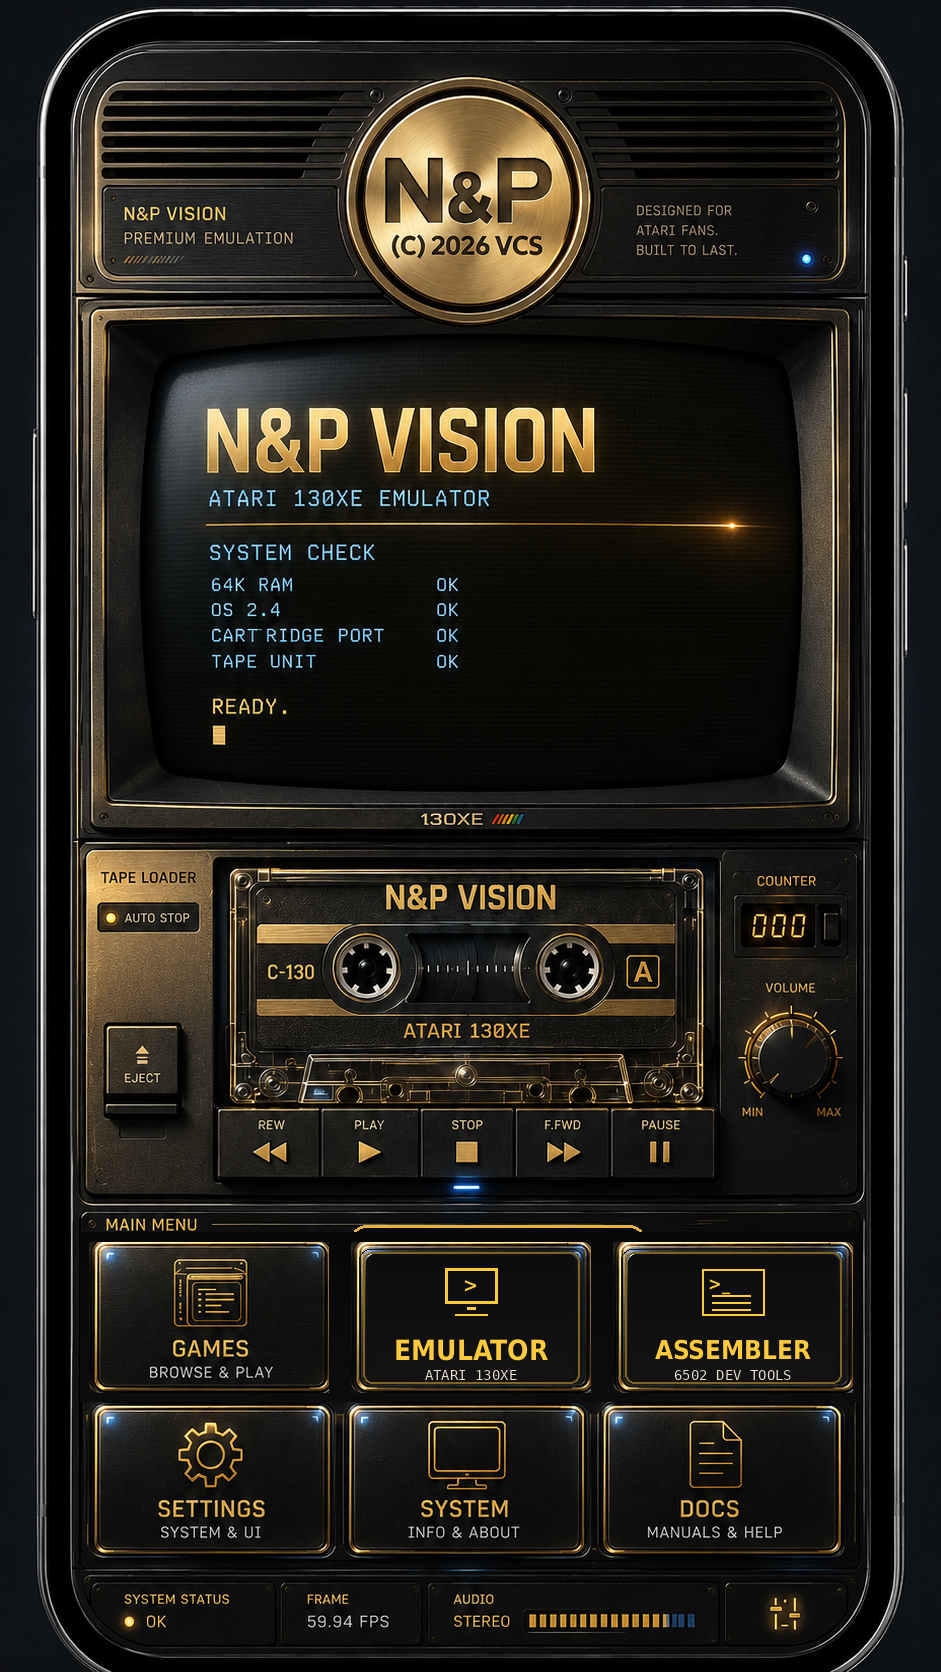
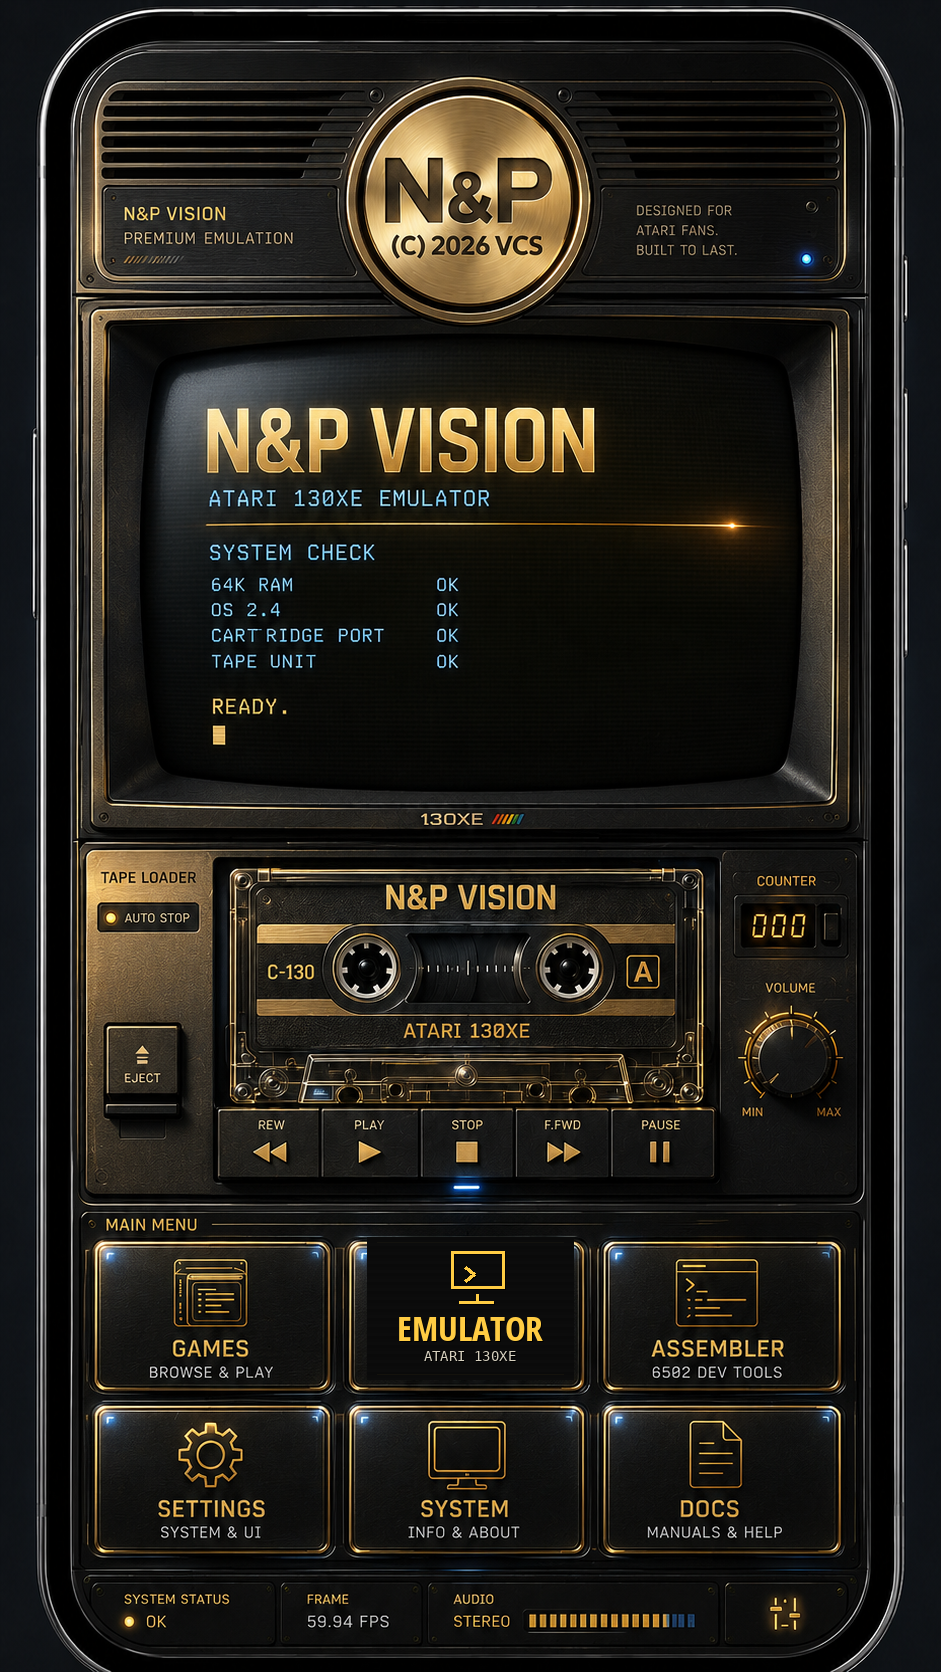
AtariHelp_EMU10_BUILD2FM_VISUAL_BASE_FROM_OLD_APK_NO_CORE_CHANGE_overlay

Changed region(s): [[0.339, 0.7153, 0.9245, 0.8397]]

diff --git a/app/src/main/assets/emu/index.html b/app/src/main/assets/emu/index.html
@@ -3,7 +3,7 @@
 <head>
 <meta charset="utf-8">
 <meta name="viewport" content="width=device-width, initial-scale=1, user-scalable=no">
-<title>N&P VISION - Atari 130XE Emulator BUILD2FL</title>
+<title>N&P VISION - Atari 130XE Emulator BUILD2FM</title>
 <style>
 :root{--gold:#f2c464;--blue:#62c8ff;--dark:#050608;--w:941;--h:1672;}
 *{box-sizing:border-box;margin:0;padding:0;-webkit-tap-highlight-color:transparent;}
@@ -185,7 +185,7 @@ canvas#scr{position:absolute;left:0;top:0;width:100% !important;height:100% !imp
 @media (prefers-reduced-motion:reduce){.scan,.screenSlot:after,#led{animation:none}}
 
 
-/* BUILD2FL: START+OPTION = opravdu jen neviditelna hit-zona nad PNG. Ani pressed/on/active nesmi kreslit dalsi obdelnik. */
+/* BUILD2FM: START+OPTION = opravdu jen neviditelna hit-zona nad PNG. Ani pressed/on/active nesmi kreslit dalsi obdelnik. */
 #btnSelfTest,#btnSelfTest.cleanHit,
 #btnSelfTest:hover,#btnSelfTest:active,#btnSelfTest:focus,#btnSelfTest:focus-visible,
 #btnSelfTest.pressed,#btnSelfTest.on,#btnSelfTest.flash,#btnSelfTest.down{
@@ -195,6 +195,18 @@ canvas#scr{position:absolute;left:0;top:0;width:100% !important;height:100% !imp
   box-shadow:none!important;filter:none!important;transform:none!important;color:transparent!important;text-shadow:none!important;
   font-size:0!important;line-height:0!important;letter-spacing:0!important;padding:0!important;margin:0!important;
   -webkit-appearance:none!important;appearance:none!important;border-radius:0!important;mix-blend-mode:normal!important;
+}
+#btnSelfTest:before,#btnSelfTest:after,#btnSelfTest.cleanHit:before,#btnSelfTest.cleanHit:after{content:none!important;display:none!important;background:none!important;border:0!important;box-shadow:none!important;}
+
+
+
+/* BUILD2FM: START+OPTION kresli pouze PNG skin z upravene stare APK reference. HTML button je cista neviditelna hit-zona. */
+#btnSelfTest,#btnSelfTest.cleanHit,
+#btnSelfTest:hover,#btnSelfTest:active,#btnSelfTest:focus,#btnSelfTest:focus-visible,
+#btnSelfTest.pressed,#btnSelfTest.on,#btnSelfTest.flash,#btnSelfTest.down{
+  background:transparent!important;border:0!important;box-shadow:none!important;outline:0!important;
+  color:transparent!important;text-shadow:none!important;font-size:0!important;opacity:0!important;
+  transform:none!important;padding:0!important;-webkit-appearance:none!important;appearance:none!important;
 }
 #btnSelfTest:before,#btnSelfTest:after,#btnSelfTest.cleanHit:before,#btnSelfTest.cleanHit:after{content:none!important;display:none!important;background:none!important;border:0!important;box-shadow:none!important;}
 
@@ -252,7 +264,7 @@ canvas#scr{position:absolute;left:0;top:0;width:100% !important;height:100% !imp
 <div id="miniLog"></div>
 <div id="txtOverlay" class="overlay" aria-label="Vlozeni BASIC TXT kodu">
   <h2>VLOZIT TXT / BASIC KOD</h2>
-  <div class="hint">Sem vloz BASIC/Turbo BASIC kod. VLOZIT DO ATARI jen zapise program. VLOZIT + RUN po zapisu automaticky posle RUN. BUILD2FL pise pomaleji, ale bezpecneji.</div>
+  <div class="hint">Sem vloz BASIC/Turbo BASIC kod. VLOZIT DO ATARI jen zapise program. VLOZIT + RUN po zapisu automaticky posle RUN. BUILD2FM pise pomaleji, ale bezpecneji.</div>
   <div class="row"><button id="btnTxtGo">VLOZIT DO ATARI</button><button id="btnTxtRun">VLOZIT + RUN</button><button id="btnTxtFile" class="dark">NAHRAJ TXT SOUBOR</button><button id="btnTxtClear" class="dark">SMAZAT TEXT</button><button id="btnTxtClose" class="danger">ZAVRIT</button></div>
   <label style="display:flex;gap:8px;align-items:center;"><input type="checkbox" id="chkNew" checked>NEW pred vlozenim programu</label>
   <textarea id="txtIn" autocomplete="off" autocorrect="off" autocapitalize="off" spellcheck="false" placeholder="10 PRINT &quot;ATARIHELP&quot;&#10;20 FOR I=1 TO 5&#10;30 PRINT I&#10;40 NEXT I"></textarea>
@@ -2193,14 +2205,14 @@ window.EMU10={ createMachine:function(){ return Atari130XE(b64u8(EMU10_OS_B64), 
     }catch(_e){}
   }
 
-  // ---------- vkladani TXT (BUILD2FL: FAST SAFE IRQ rezim - rychlejsi nez FI, porad bez RAM injectu) ----------
+  // ---------- vkladani TXT (BUILD2FM: FAST SAFE IRQ rezim - rychlejsi nez FI, porad bez RAM injectu) ----------
   var typeQ=[], typeWait=0, typeHold=0, typeCurrent=null, typeSent=0, typeTotal=0, typeDoneLogged=true;
-  var typeLineIndex=0, typeLineTotal=0, typeChWait=0, typeLastLineLogged=0, typeBuildName='BUILD2FL';
+  var typeLineIndex=0, typeLineTotal=0, typeChWait=0, typeLastLineLogged=0, typeBuildName='BUILD2FM';
   function clearTypeQueue(reason){
     typeQ.length=0; typeWait=0; typeHold=0; typeCurrent=null; typeSent=0; typeTotal=0; typeDoneLogged=true;
     typeLineIndex=0; typeLineTotal=0; typeChWait=0; typeLastLineLogged=0;
     try{ if(M) M.keyUp(); }catch(_e){}
-    if(reason) log('VLOZIT TXT BUILD2FL: fronta vycistena - '+reason);
+    if(reason) log('VLOZIT TXT BUILD2FM: fronta vycistena - '+reason);
   }
   function pushTypeScan(sc, meta){
     meta=meta||{}; meta.sc=sc&0xFF; typeQ.push(meta);
@@ -2211,7 +2223,7 @@ window.EMU10={ createMachine:function(){ return Atari130XE(b64u8(EMU10_OS_B64), 
     clearTypeQueue('novy text');
     var skipped=0, lineNo=1, visibleLines=0;
     text=String(text||'').replace(/\r/g,'');
-    // BUILD2FL: kdyz posledni radek nema ENTER, pridam ho. Bez toho BASIC/TBXL posledni radek nemusi potvrdit.
+    // BUILD2FM: kdyz posledni radek nema ENTER, pridam ho. Bez toho BASIC/TBXL posledni radek nemusi potvrdit.
     if(text.length && text[text.length-1] !== '\n' && text[text.length-1] !== '\x01' && text[text.length-1] !== '\x02') text+='\n';
     var lineBuf='';
     function flushReturn(label,longWait){
@@ -2244,15 +2256,15 @@ window.EMU10={ createMachine:function(){ return Atari130XE(b64u8(EMU10_OS_B64), 
     }
     typeTotal=typeQ.length; typeSent=0; typeDoneLogged=(typeTotal===0);
     typeLineTotal=visibleLines; typeLineIndex=0;
-    log('VLOZIT TXT BUILD2FL: pripraveno '+typeTotal+' stisku / '+visibleLines+' radku. CLASSIC SAFE rezim: pomalejsi, ale stabilni. Po kazde klavese a RETURN cekam na CH $02FC. Posledni radek dostane ENTER automaticky. Zadny RAM inject.'+(skipped?(' Preskoceno '+skipped+' neznamych znaku.'):'') );
-    if(typeTotal===0) log('VLOZIT TXT BUILD2FL: nic k vlozeni.');
+    log('VLOZIT TXT BUILD2FM: pripraveno '+typeTotal+' stisku / '+visibleLines+' radku. CLASSIC SAFE rezim: pomalejsi, ale stabilni. Po kazde klavese a RETURN cekam na CH $02FC. Posledni radek dostane ENTER automaticky. Zadny RAM inject.'+(skipped?(' Preskoceno '+skipped+' neznamych znaku.'):'') );
+    if(typeTotal===0) log('VLOZIT TXT BUILD2FM: nic k vlozeni.');
   }
   function machineChEmpty(){
     try{ if(M && typeof M.chEmpty==='function') return M.chEmpty(); }catch(_e){}
     return true;
   }
   function typeStep(){
-    // BUILD2FL: rychlejsi SAFE rezim. Ne blokove FG, porad jednotlive klavesy pres IRQ + CH guard.
+    // BUILD2FM: rychlejsi SAFE rezim. Ne blokove FG, porad jednotlive klavesy pres IRQ + CH guard.
     if(!M){ clearTypeQueue('neni machine'); return; }
     if(typeWait>0){ typeWait--; return; }
     if(typeCurrent!==null){
@@ -2261,17 +2273,17 @@ window.EMU10={ createMachine:function(){ return Atari130XE(b64u8(EMU10_OS_B64), 
       var done=typeCurrent; typeCurrent=null;
       if(done.kind==='return'){
         typeLineIndex++;
-        var wait=done.longWait?220:80; // BUILD2FL: CLASSIC SAFE dobeh po radku pro BASIC/TBXL
+        var wait=done.longWait?220:80; // BUILD2FM: CLASSIC SAFE dobeh po radku pro BASIC/TBXL
         typeWait=wait;
         if(typeLineIndex===1 || typeLineIndex===typeLineTotal || (typeLineIndex%5)===0 || done.longWait){
-          log('VLOZIT TXT BUILD2FL: TXT LINE '+typeLineIndex+'/'+typeLineTotal+' '+(done.label||'RETURN')+' odeslan, cekam BASIC/TBXL '+wait+' kroku.');
+          log('VLOZIT TXT BUILD2FM: TXT LINE '+typeLineIndex+'/'+typeLineTotal+' '+(done.label||'RETURN')+' odeslan, cekam BASIC/TBXL '+wait+' kroku.');
         }
       } else {
-        typeWait=6; // BUILD2FL: CLASSIC SAFE oddech po znaku, stabilita pred rychlosti
+        typeWait=6; // BUILD2FM: CLASSIC SAFE oddech po znaku, stabilita pred rychlosti
       }
       if(!typeQ.length && typeSent>=typeTotal && !typeDoneLogged){
         typeDoneLogged=true;
-        log('VLOZIT TXT BUILD2FL: QUEUE COMPLETE - vsechny znaky/radky odeslany pres klavesove IRQ, bez RAM injectu. Ted pouzij LIST/RUN nebo tlacitko VLOZIT + RUN.');
+        log('VLOZIT TXT BUILD2FM: QUEUE COMPLETE - vsechny znaky/radky odeslany pres klavesove IRQ, bez RAM injectu. Ted pouzij LIST/RUN nebo tlacitko VLOZIT + RUN.');
       }
       return;
     }
@@ -2279,18 +2291,18 @@ window.EMU10={ createMachine:function(){ return Atari130XE(b64u8(EMU10_OS_B64), 
     if(!machineChEmpty()){
       typeChWait++;
       if(typeChWait===1 || (typeChWait%80)===0){
-        log('VLOZIT TXT BUILD2FL: cekam na prazdny CH $02FC pred dalsi klavesou, line '+(typeQ[0]&&typeQ[0].line?typeQ[0].line:'?')+'.');
+        log('VLOZIT TXT BUILD2FM: cekam na prazdny CH $02FC pred dalsi klavesou, line '+(typeQ[0]&&typeQ[0].line?typeQ[0].line:'?')+'.');
       }
       return;
     }
     typeChWait=0;
     var it=typeQ.shift();
-    try{ M.keyDown(it.sc&0xFF); }catch(e){ log('VLOZIT TXT BUILD2FL: keyDown chyba - '+e.message); clearTypeQueue('chyba keyDown'); return; }
+    try{ M.keyDown(it.sc&0xFF); }catch(e){ log('VLOZIT TXT BUILD2FM: keyDown chyba - '+e.message); clearTypeQueue('chyba keyDown'); return; }
     typeCurrent=it; typeHold=2; typeSent++;
     if(it.kind==='return'){
       // RETURN logujeme az po keyUp, aby bylo jasne, ze ho BASIC/TBXL dostal do fronty
     } else if(typeSent===1 || typeSent===typeTotal || (typeSent%40)===0){
-      log('VLOZIT TXT BUILD2FL: znak '+typeSent+'/'+typeTotal+' line '+it.line+' scan=$'+((it.sc&255).toString(16).toUpperCase()).padStart(2,'0')+'.');
+      log('VLOZIT TXT BUILD2FM: znak '+typeSent+'/'+typeTotal+' line '+it.line+' scan=$'+((it.sc&255).toString(16).toUpperCase()).padStart(2,'0')+'.');
     }
   }
 
@@ -3167,7 +3179,7 @@ window.EMU10={ createMachine:function(){ return Atari130XE(b64u8(EMU10_OS_B64), 
     try{ document.documentElement.style.overflowY='auto'; document.body.style.overflowY='auto'; }catch(_e){}
     var targetY = (/VLOZIT/.test(reason||'')) ? 0 : (txtOverlayLastScrollY||window.scrollY||0);
     try{ window.scrollTo({top:targetY,left:0,behavior:'auto'}); }catch(_e){ try{ window.scrollTo(0,targetY); }catch(__e){} }
-    if(reason) log('TXT RAMECEK BUILD2FL: zavreno/odeslano - '+reason+'. Scroll stranky je znovu povolen'+((/VLOZIT/.test(reason||''))?' a obraz je posunuty nahoru k Atari obrazovce.':'.'));
+    if(reason) log('TXT RAMECEK BUILD2FM: zavreno/odeslano - '+reason+'. Scroll stranky je znovu povolen'+((/VLOZIT/.test(reason||''))?' a obraz je posunuty nahoru k Atari obrazovce.':'.'));
   }
   function openTxtOverlay(){
     txtOverlayLastScrollY = window.scrollY || document.documentElement.scrollTop || document.body.scrollTop || 0;
@@ -3175,7 +3187,7 @@ window.EMU10={ createMachine:function(){ return Atari130XE(b64u8(EMU10_OS_B64), 
     if(o) o.style.display='flex';
     try{ document.documentElement.style.overflowY='auto'; document.body.style.overflowY='auto'; }catch(_e){}
     setTimeout(function(){ var ta=document.getElementById('txtIn'); if(ta){ ta.focus(); try{ ta.setSelectionRange(ta.value.length,ta.value.length); }catch(_e){} } },60);
-    log('TXT RAMECEK BUILD2FL: otevren. Ctrl+V funguje, overlay ma vlastni scroll. Po VLOZIT se focus uvolni a stranka jde zase posouvat.');
+    log('TXT RAMECEK BUILD2FM: otevren. Ctrl+V funguje, overlay ma vlastni scroll. Po VLOZIT se focus uvolni a stranka jde zase posouvat.');
   }
   function openTextPicker(){
     log('TXT: oteviram mobilni Downloads / Vyber BASIC nebo Turbo BASIC textu.');
@@ -3627,34 +3639,34 @@ window.EMU10={ createMachine:function(){ return Atari130XE(b64u8(EMU10_OS_B64), 
     safeTap('dockMenu',function(){ pressAnim('dockMenu',220); try{ window.location.href='../index.html'; }catch(e){ log('MENU chyba: '+e.message); } });
     safeTap('btnHelpPanel',function(){ pressAnim('btnHelpPanel',220); var ov=document.getElementById('helpOverlay'); if(ov){ ov.style.display='flex'; ov.setAttribute('aria-hidden','false'); } });
     function txtToAtari(text,runAfter){
-      if(!text){ log('TXT RAMECEK BUILD2FL: prazdny ramecek, nic nevkladam.'); return; }
+      if(!text){ log('TXT RAMECEK BUILD2FM: prazdny ramecek, nic nevkladam.'); return; }
       var pre=document.getElementById('chkNew').checked ? 'NEW\x01' : '';
       var body=text.replace(/\r/g,'').replace(/\n*$/,'\n');
       if(runAfter) body+='RUN\x02';
       queueText(pre + body);
-      log('TXT RAMECEK BUILD2FL: vlozeno do aktivni fronty '+body.length+' znaku'+(runAfter?' + RUN s delsim RETURN dobehem':'')+'. Sleduj Atari obraz, text se pise pomalejsim CLASSIC SAFE IRQ rezimem; cilem je LIST/RUN bez ztraty radku.');
+      log('TXT RAMECEK BUILD2FM: vlozeno do aktivni fronty '+body.length+' znaku'+(runAfter?' + RUN s delsim RETURN dobehem':'')+'. Sleduj Atari obraz, text se pise pomalejsim CLASSIC SAFE IRQ rezimem; cilem je LIST/RUN bez ztraty radku.');
     }
     safeTap('btnTxtGo',function(){
       var ta=document.getElementById('txtIn');
-      log('TXT RAMECEK BUILD2FL: stisk VLOZIT DO ATARI, delka='+(ta&&ta.value?ta.value.length:0)+' znaku.');
+      log('TXT RAMECEK BUILD2FM: stisk VLOZIT DO ATARI, delka='+(ta&&ta.value?ta.value.length:0)+' znaku.');
       closeTxtOverlay('VLOZIT DO ATARI');
       txtToAtari(ta?ta.value:'',false);
     });
     safeTap('btnTxtRun',function(){
       var ta=document.getElementById('txtIn');
-      log('TXT RAMECEK BUILD2FL: stisk VLOZIT + RUN, delka='+(ta&&ta.value?ta.value.length:0)+' znaku.');
+      log('TXT RAMECEK BUILD2FM: stisk VLOZIT + RUN, delka='+(ta&&ta.value?ta.value.length:0)+' znaku.');
       closeTxtOverlay('VLOZIT + RUN');
       txtToAtari(ta?ta.value:'',true);
     });
     safeTap('btnTxtClear',function(){
       var ta=document.getElementById('txtIn'); if(ta){ ta.value=''; ta.focus(); }
-      log('TXT RAMECEK BUILD2FL: textovy ramecek smazan.');
+      log('TXT RAMECEK BUILD2FM: textovy ramecek smazan.');
     });
     safeTap('btnTxtFile',function(){
       closeTxtOverlay('NAHRAJ TXT SOUBOR');
       pickFile('.txt,.lst,.bas',function(n,u8){
         var text=''; for(var i=0;i<u8.length;i++){ var b=u8[i]; if(b===0x9B){text+='\n';continue;} text+=String.fromCharCode(b); } // ATASCII EOL -> \n
-        log('NAHRAJ TXT BUILD2FL: '+n+' ('+u8.length+' B) - piseme do BASICu pres klavesove IRQ v bezpecnem rezimu.');
+        log('NAHRAJ TXT BUILD2FM: '+n+' ('+u8.length+' B) - piseme do BASICu pres klavesove IRQ v bezpecnem rezimu.');
         txtToAtari(text);
       });
     });
@@ -3705,9 +3717,9 @@ window.EMU10={ createMachine:function(){ return Atari130XE(b64u8(EMU10_OS_B64), 
     buildOSK(document.getElementById('osk'));
     bindKeyboard();
     updateTapeCounter();
-    log('AtariHelp.eu EMU-10 BUILD2FL_CLEAN_MENU_POWER_BUTTON_STABLE_TXT pripraven.');
-    log('BUILD2FL: START+OPTION je prekreslene jako stejny styl jako POWER BASIC; EMULATOR/ASSEMBLER jsou stejne menu karty jako GAMES. HTML zustava jen neviditelna hit-zona.');
-    log('BUILD2FL: TXT zapis ponechan ve stabilnim CLASSIC SAFE rezimu z FK, protoze funkcnost ma prednost pred turbo rychlosti.');
+    log('AtariHelp.eu EMU-10 BUILD2FM_VISUAL_BASE_FROM_OLD_APK_NO_CORE_CHANGE pripraven.');
+    log('BUILD2FM: START+OPTION pouziva cisty PNG skin podle stare APK reference; HTML je jen transparentni hitzona, bez prelepu.');
+    log('BUILD2FM: TXT zapis ponechan ve stabilnim CLASSIC SAFE rezimu z FK, protoze funkcnost ma prednost pred turbo rychlosti.');
     requestAnimationFrame(tick);
     if(!AH_AUTORUN_FROM_NET){ setTimeout(function(){ var p=document.getElementById('btnPower'); if(p) p.click(); }, 120); } else { log('NET AUTORUN: auto POWER BASIC vypnut, cekam na soubor z webu.'); }
   });

diff --git a/app/src/main/assets/index.html b/app/src/main/assets/index.html
@@ -3,7 +3,7 @@
 <head>
 <meta charset="utf-8">
 <meta name="viewport" content="width=device-width, initial-scale=1, user-scalable=no">
-<title>N&P VISION — AtariHelp.eu EMU-10 BUILD2FL</title>
+<title>N&P VISION — AtariHelp.eu EMU-10 BUILD2FM</title>
 <style>
 :root{--gold:#f3c465;--blue:#6cc9ff;--dark:#060709;--w:941;--h:1672;}
 *{box-sizing:border-box;margin:0;padding:0;-webkit-tap-highlight-color:transparent;}
@@ -95,7 +95,7 @@ body{display:flex;justify-content:center;align-items:flex-start;overflow-x:hidde
 #introTapeFwd{left:56.6%;top:65.70%;width:10.9%;height:4.55%;}
 #introTapePause{left:67.8%;top:65.70%;width:10.9%;height:4.55%;}
 
-/* BUILD2FL: EMULATOR je jen neviditelna klikaci zona nad PNG. Zadna dalsi kreslena vrstva, zadne tlacitko pres tlacitko. */
+/* BUILD2FM: EMULATOR je jen neviditelna klikaci zona nad PNG. Zadna dalsi kreslena vrstva, zadne tlacitko pres tlacitko. */
 #goTape{
   left:37.2%;top:74.4%;width:25.8%;height:9.7%;z-index:30;
   display:block!important;background:rgba(255,196,90,0)!important;border:0!important;
@@ -108,7 +108,7 @@ body{display:flex;justify-content:center;align-items:flex-start;overflow-x:hidde
 
 
 
-/* BUILD2FL: EMULATOR = opravdu jen neviditelna hit-zona. Zadny hover/active/flash/down/pressed nesmi kreslit dalsi tlacitko pres PNG. */
+/* BUILD2FM: EMULATOR = opravdu jen neviditelna hit-zona. Zadny hover/active/flash/down/pressed nesmi kreslit dalsi tlacitko pres PNG. */
 #goTape,#goTape.cleanHit,
 #goTape:hover,#goTape:active,#goTape:focus,#goTape:focus-visible,
 #goTape.flash,#goTape.down,#goTape.pressed,#goTape.on{
@@ -120,6 +120,31 @@ body{display:flex;justify-content:center;align-items:flex-start;overflow-x:hidde
   -webkit-appearance:none!important;appearance:none!important;border-radius:0!important;mix-blend-mode:normal!important;
 }
 #goTape:before,#goTape:after,#goTape.cleanHit:before,#goTape.cleanHit:after{content:none!important;display:none!important;background:none!important;border:0!important;box-shadow:none!important;}
+
+
+
+/* BUILD2FM: vizualni reference ze stare APK. Tyto prvky zustavaji klikaci, ale NESMI kreslit dalsi tlacitka pres PNG skin. */
+#introMp3DownloadBtn,#introMp3ListBtn,#introHelpBtn,
+#introMp3DownloadBtn:hover,#introMp3ListBtn:hover,#introHelpBtn:hover,
+#introMp3DownloadBtn:active,#introMp3ListBtn:active,#introHelpBtn:active,
+#introMp3DownloadBtn:focus,#introMp3ListBtn:focus,#introHelpBtn:focus,
+#introMp3DownloadBtn:focus-visible,#introMp3ListBtn:focus-visible,#introHelpBtn:focus-visible,
+#introMp3DownloadBtn.flash,#introMp3ListBtn.flash,#introHelpBtn.flash{
+  background:transparent!important;border:0!important;box-shadow:none!important;outline:0!important;
+  color:transparent!important;text-shadow:none!important;font-size:0!important;opacity:0!important;
+  transform:none!important;padding:0!important;-webkit-appearance:none!important;appearance:none!important;
+}
+#introMp3Now,#introMp3Hud{opacity:0!important;color:transparent!important;text-shadow:none!important;background:transparent!important;border:0!important;box-shadow:none!important;}
+#introMp3Now{font-size:0!important;}
+/* GAMES / EMULATOR / ASSEMBLER viditelne kresli jen PNG. Odkazy jsou pouze ciste hitzony. */
+#goGames,#goAsm,#goSettings,#goSystem,#goDocs,
+#goGames:hover,#goAsm:hover,#goSettings:hover,#goSystem:hover,#goDocs:hover,
+#goGames:active,#goAsm:active,#goSettings:active,#goSystem:active,#goDocs:active,
+#goGames:focus,#goAsm:focus,#goSettings:focus,#goSystem:focus,#goDocs:focus,
+#goGames.flash,#goAsm.flash,#goSettings.flash,#goSystem.flash,#goDocs.flash{
+  background:transparent!important;border:0!important;box-shadow:none!important;outline:0!important;
+  color:transparent!important;text-shadow:none!important;font-size:0!important;transform:none!important;
+}
 
 </style>
 </head>
@@ -441,7 +466,7 @@ var introHelpBtn=$('introHelpBtn'), introHelpOverlay=$('introHelpOverlay'), intr
 if(introHelpBtn && introHelpOverlay){ bind('introHelpBtn', function(){ press('introHelpBtn',220); introHelpOverlay.classList.add('open'); introHelpOverlay.setAttribute('aria-hidden','false'); }); }
 if(introHelpClose && introHelpOverlay){ introHelpClose.addEventListener('click', function(){ introHelpOverlay.classList.remove('open'); introHelpOverlay.setAttribute('aria-hidden','true'); }); }
 log('BUILD2AQ: MP3 PRIDAT nyni nacita/pripojuje skladby do playlistu; EJECT maze playlist.');
-log('BUILD2FL: intro EMULATOR a ASSEMBLER jsou prekreslene jako stejne karty v radku MAIN MENU; HTML je jen neviditelna hit-zona.');
+log('BUILD2FM: intro EMULATOR a ASSEMBLER jsou prekreslene jako stejne karty v radku MAIN MENU; HTML je jen neviditelna hit-zona.');
 })();
 </script>
 </body>
